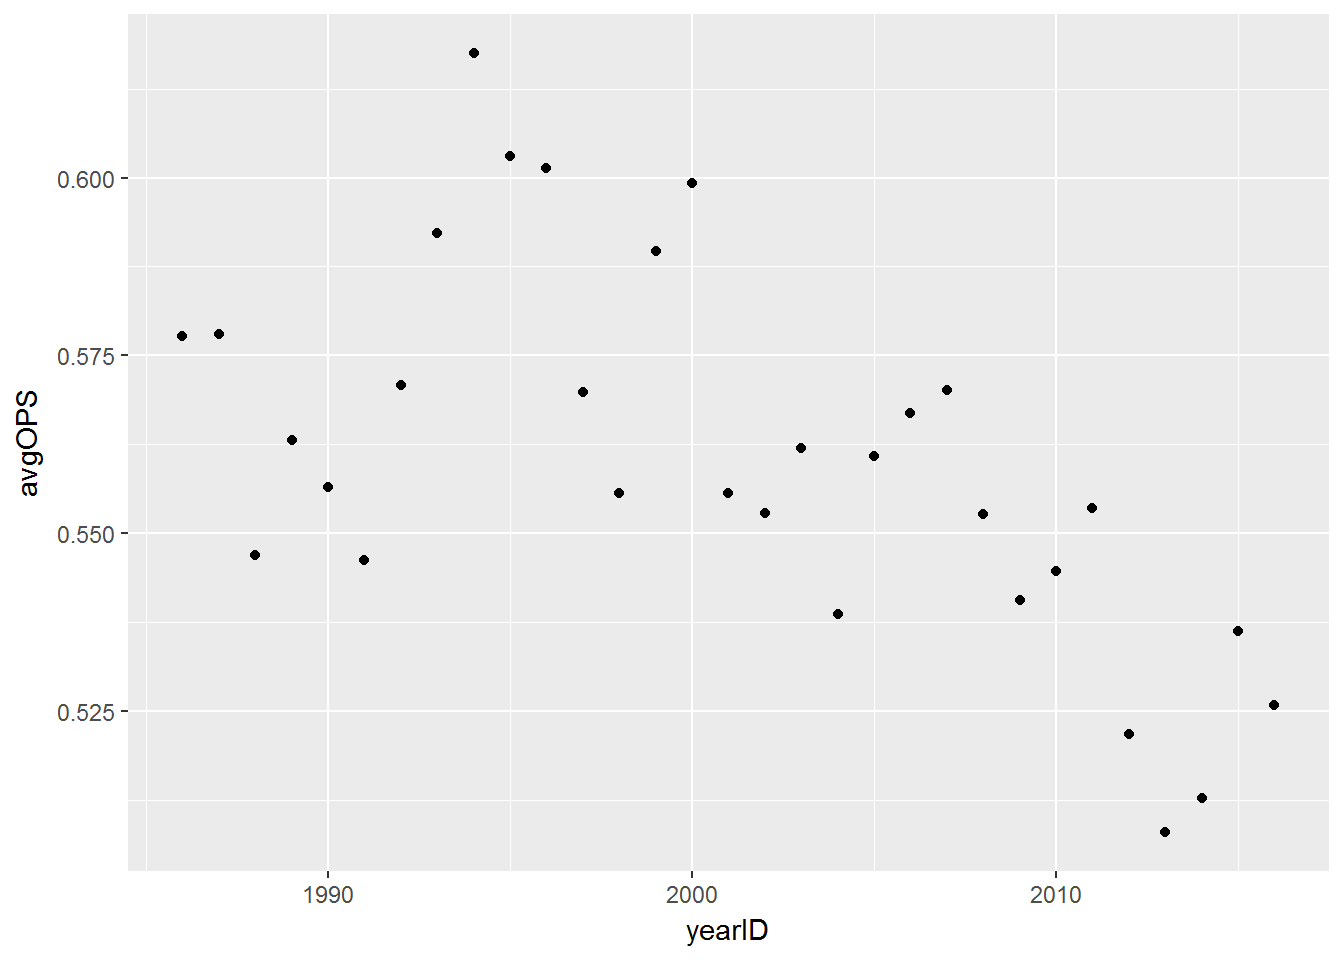
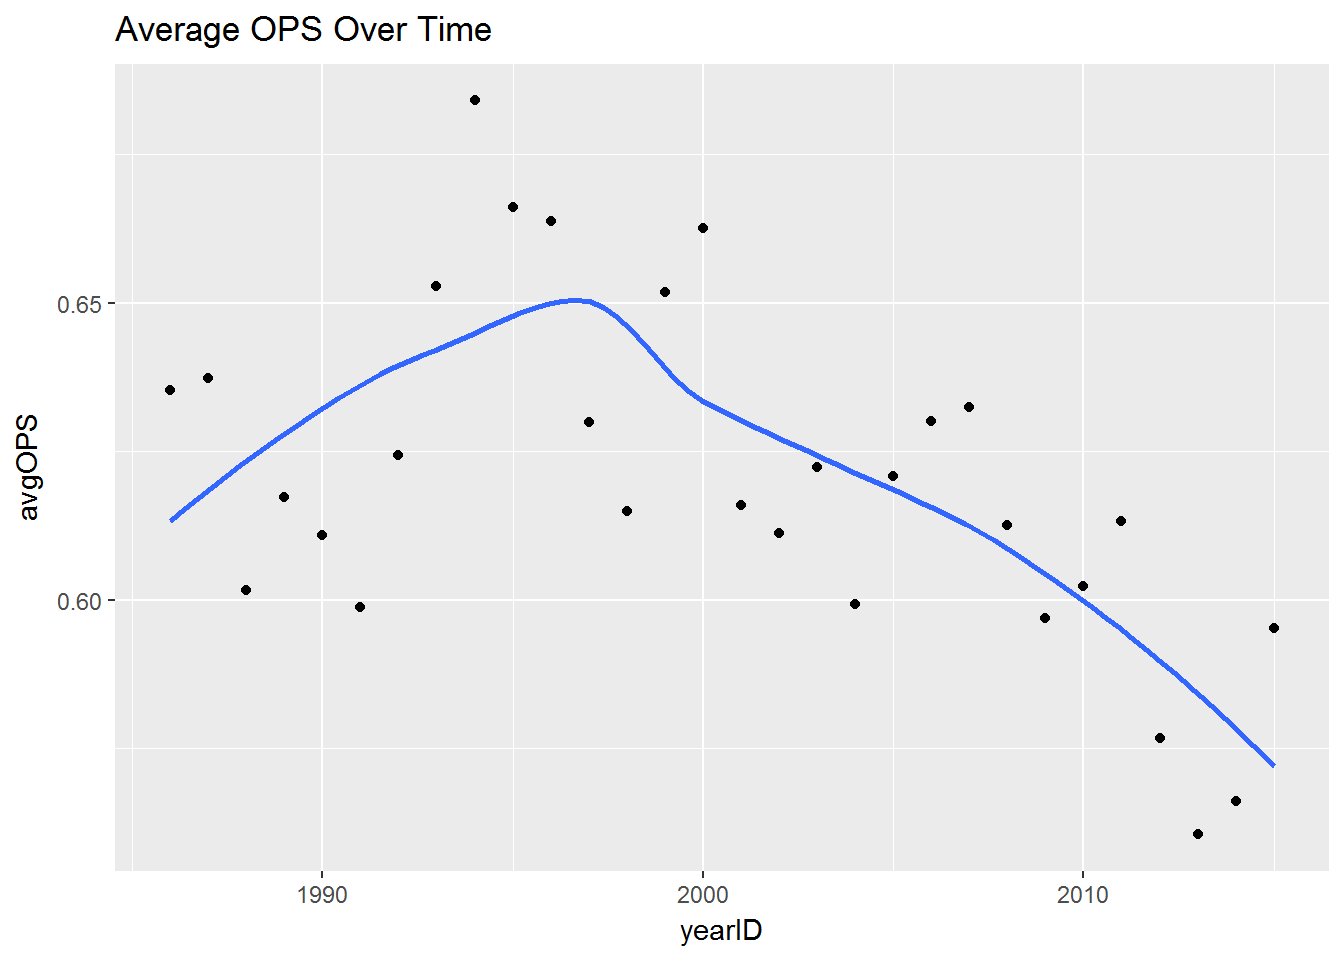
addded more graphs, changed front page

diff --git a/analysis.html b/analysis.html
@@ -204,39 +204,15 @@ $(document).ready(function () {
 </div>
 
 
-<pre class="r"><code>#master_file&lt;-read.csv(file.choose() ,header = TRUE)
-batting&lt;-read.csv(&quot;../EDA_Data/Batting.csv&quot;,header=TRUE)
-pitching&lt;-read.csv(&quot;../EDA_Data/Pitching.csv&quot;,header=TRUE)
-
-library(tidyverse)</code></pre>
-<pre><code>## Loading tidyverse: ggplot2
-## Loading tidyverse: tibble
-## Loading tidyverse: tidyr
-## Loading tidyverse: readr
-## Loading tidyverse: purrr
-## Loading tidyverse: dplyr</code></pre>
-<pre><code>## Conflicts with tidy packages ----------------------------------------------</code></pre>
-<pre><code>## filter(): dplyr, stats
-## lag():    dplyr, stats</code></pre>
-<pre class="r"><code>library(dplyr)
-library(ggplot2)</code></pre>
-<pre class="r"><code>batting2 = filter(batting, batting$yearID &gt; 1985) %&gt;% select(yearID,H,X2B,X3B,HR,AB,BB,HBP,SF,) %&gt;% na.omit() %&gt;% mutate(TB = H+X2B+(2*X3B)+(3*HR)) %&gt;% mutate(SLG = TB/AB) %&gt;% na.omit() %&gt;% mutate(OBP = (H + BB + HBP)/(AB + BB + SF + HBP)) %&gt;% mutate(OPS = SLG + OBP)
-
-table = batting2 %&gt;% group_by(yearID) %&gt;% summarise(avgOPS = mean(OPS))</code></pre>
-<pre class="r"><code>ggplot(table, aes(x =yearID, y = avgOPS)) + geom_point()</code></pre>
+<pre><code>## `geom_smooth()` using method = &#39;loess&#39;</code></pre>
 <p><img src="analysis_files/figure-html/unnamed-chunk-3-1.png" width="672" /></p>
-<pre class="r"><code>pitching2 = filter(pitching, pitching$yearID &gt; 1985) %&gt;% select(yearID,ERA) %&gt;% na.omit
-table2 = pitching2 %&gt;% group_by(yearID) %&gt;% summarise(avgERA = mean(ERA))</code></pre>
-<pre class="r"><code>ggplot(table2, aes(x =yearID, y = avgERA)) + geom_point()</code></pre>
+<p>We can see that average OPS increases during the 90’s and then decreases.</p>
 <p><img src="analysis_files/figure-html/unnamed-chunk-5-1.png" width="672" /></p>
-<p>WE can see that ERA started to go down when OPS did.</p>
-<pre class="r"><code>#str(master_file)</code></pre>
-<div id="things-to-consider-for-for-rqs-strikeouts-and-era-for-pitchers-pre-during-and-poststeriod-use..also-obp-and-batting-average-for-hitters-pre-during-and-post." class="section level1">
-<h1>Things to consider for for RQ’s: strikeouts and era for pitchers pre, during and post(steriod use)…..also obp and batting average for hitters pre, during and post.</h1>
-</div>
-<div id="steriod-use-staring-around-late-80s-and-dying-out-in-2003-yet-continuing-to-see-suspensuons-to-this-day-for-steriods." class="section level1">
-<h1>Steriod use staring around late 80’s and dying out in 2003, yet continuing to see suspensuons to this day for steriods.</h1>
-</div>
+<p>We can see that average ERA increaes until 2000 and the decreases.</p>
+<p><img src="analysis_files/figure-html/unnamed-chunk-6-1.png" width="672" /></p>
+<p>This graph looks very similar to the graph of ERA. This shows that OPS and ERA increased and decreased at a similar rate.</p>
+<p><img src="analysis_files/figure-html/unnamed-chunk-7-1.png" width="672" /></p>
+<p>The bottom line shows that salaries were increasing quicker when OPS was increasing.</p>
 
 
 

diff --git a/index.html b/index.html
@@ -210,10 +210,6 @@ $(document).ready(function () {
 <p>This site is an exploratory data analysis of baseball data.</p>
 <p>Data used in this analysis can be found at <a href="http://www.seanlahman.com/baseball-archive/statistics/">Lahman’s Baseball Database</a></p>
 <hr />
-<p>On this project site we investigate the following three questions:</p>
-<p>(1.) During the steroid era of baseball (roughly 1988-2003), we are interested in if the hitters actually gain an advantage by being on steroids because the pitchers were also on steroids. There is a focus on looking for trends in OPS vs. ERA.</p>
-<p>(2.) The amount of money a team has and its effect of number of team’s wins? We look chiefly at seasons after the year 1961 because the number of games are the same per season (162 games).</p>
-<p>(3.) Does birthplace/race effect player salary? This is aimed at looking for relationships between players salaries in relationship to birthplace and race.</p>
 <p>The purpose of our research is to examine how steroids effected baseball during the steroid era. More specifically, we want to see if hitters did not actually gain an advantage by being on steroids because the pitchers were also on steroids. We will do this by comparing the OPS of the hitters with the ERA of the pitchers. The OPS is the sum of a statistic of how often a hitter reaches base and a statistic that measures the batting productivity of a hitter. The ERA is the mean of the earned runs given up by a pitcher. By looking at these statistics for players before and after the steroid era, we can see wether hitters did not acutally gain an advantage.</p>
 
 
